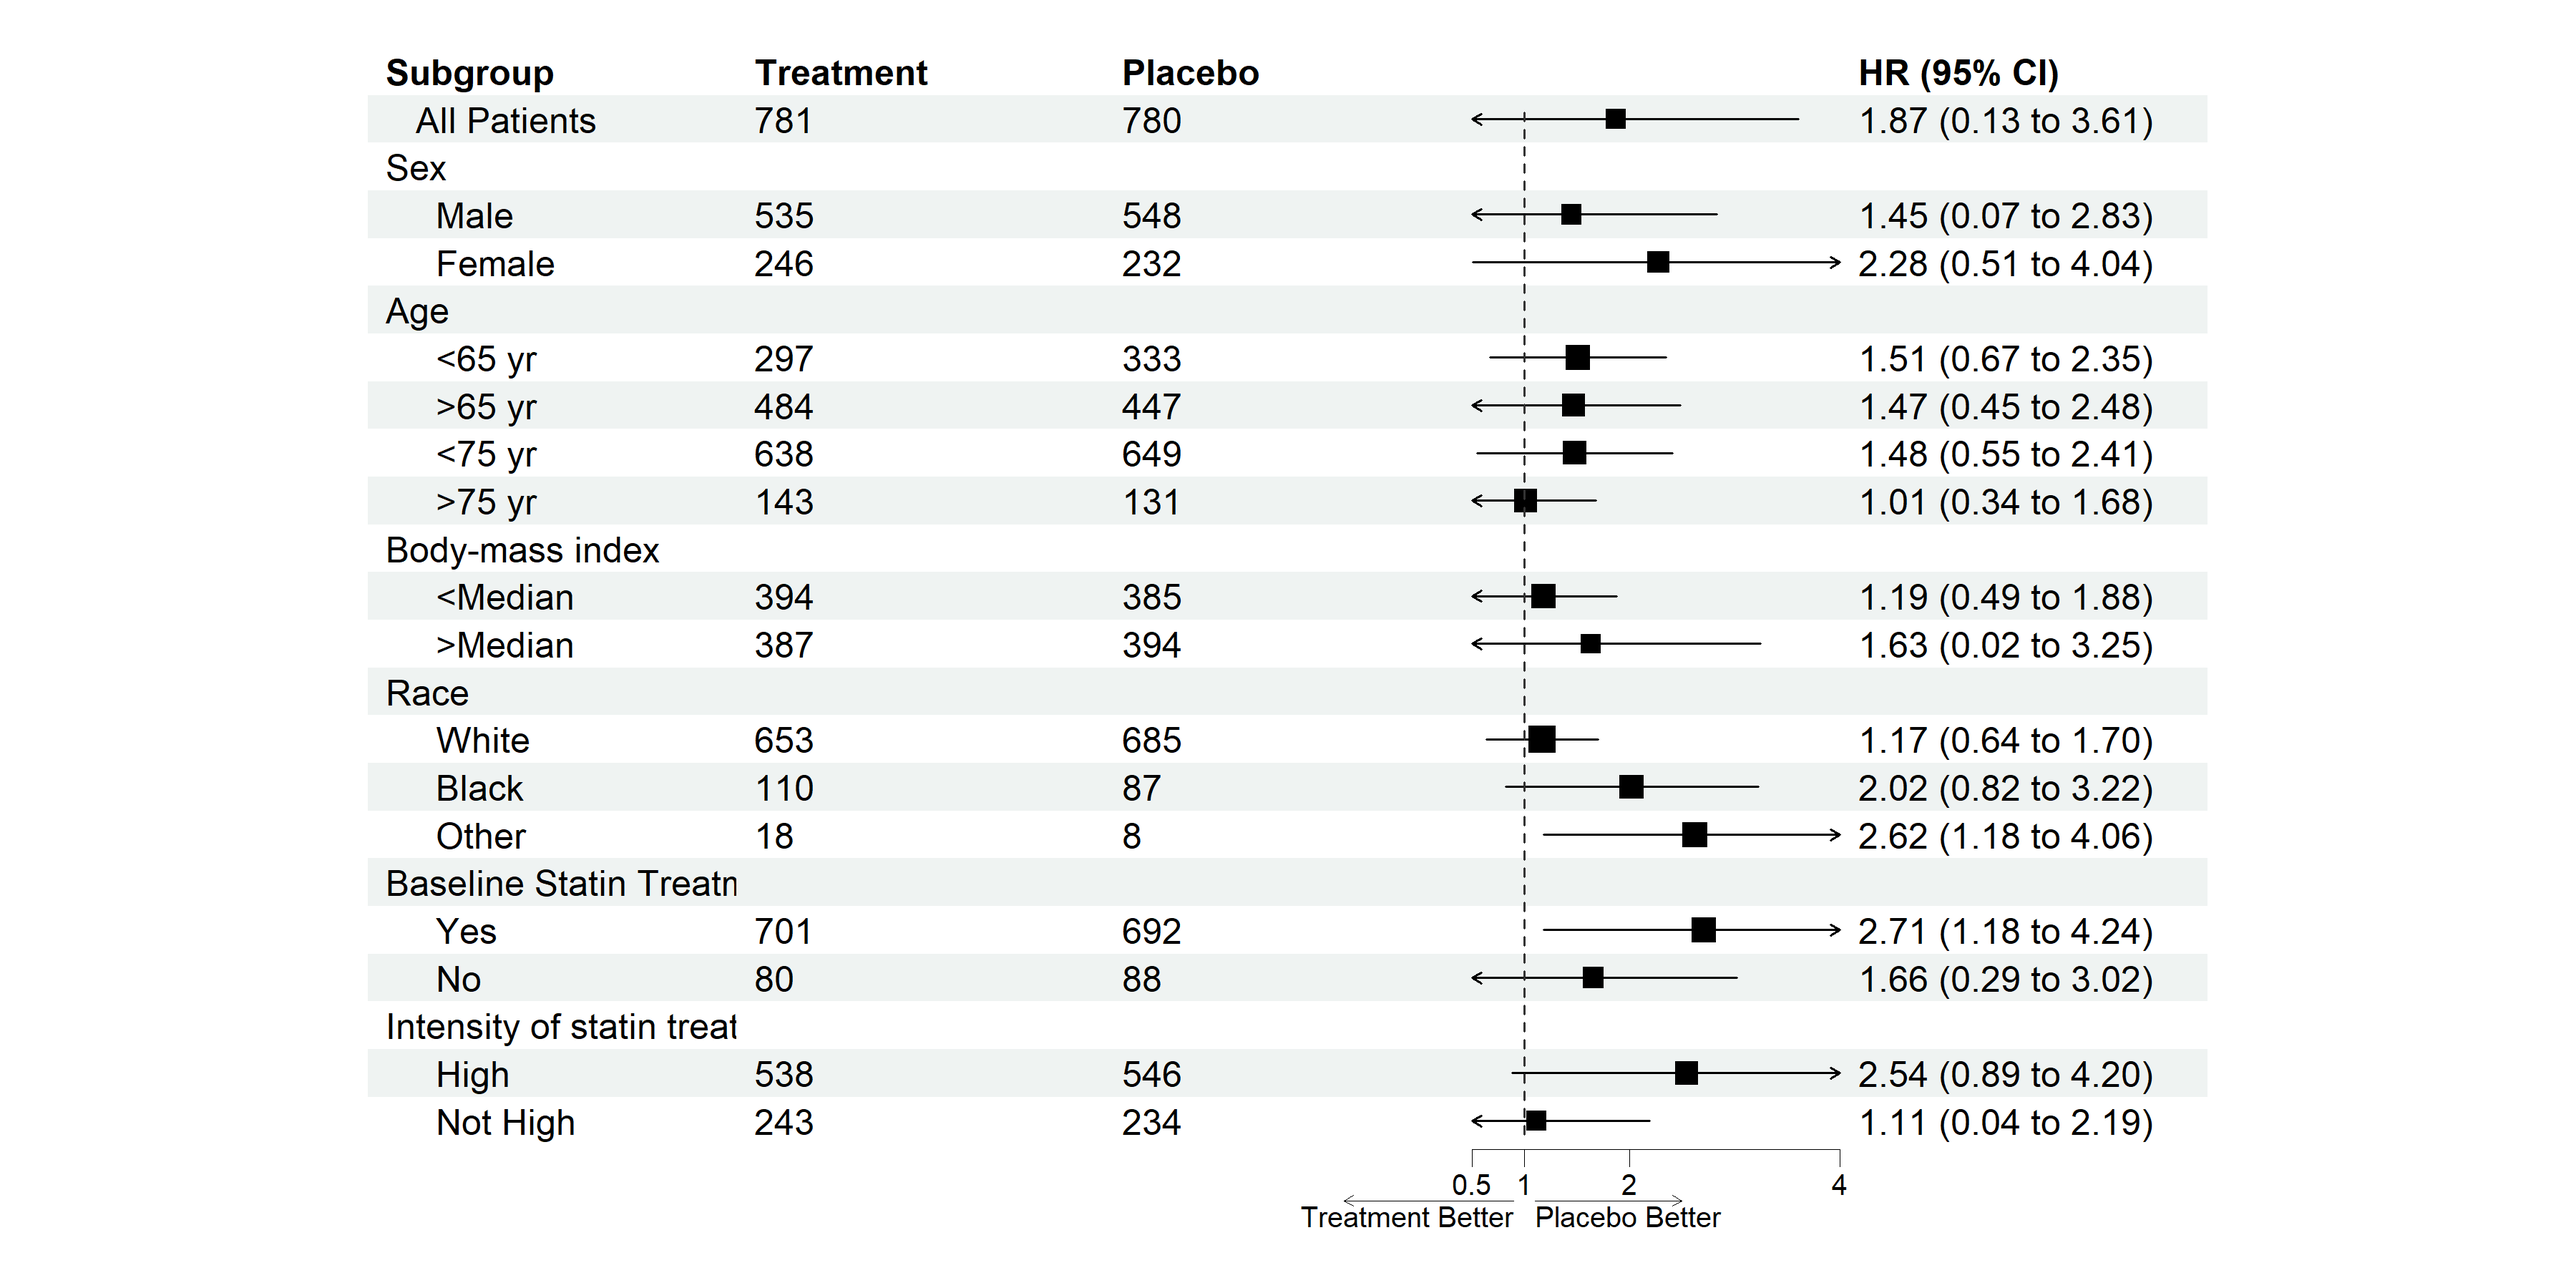
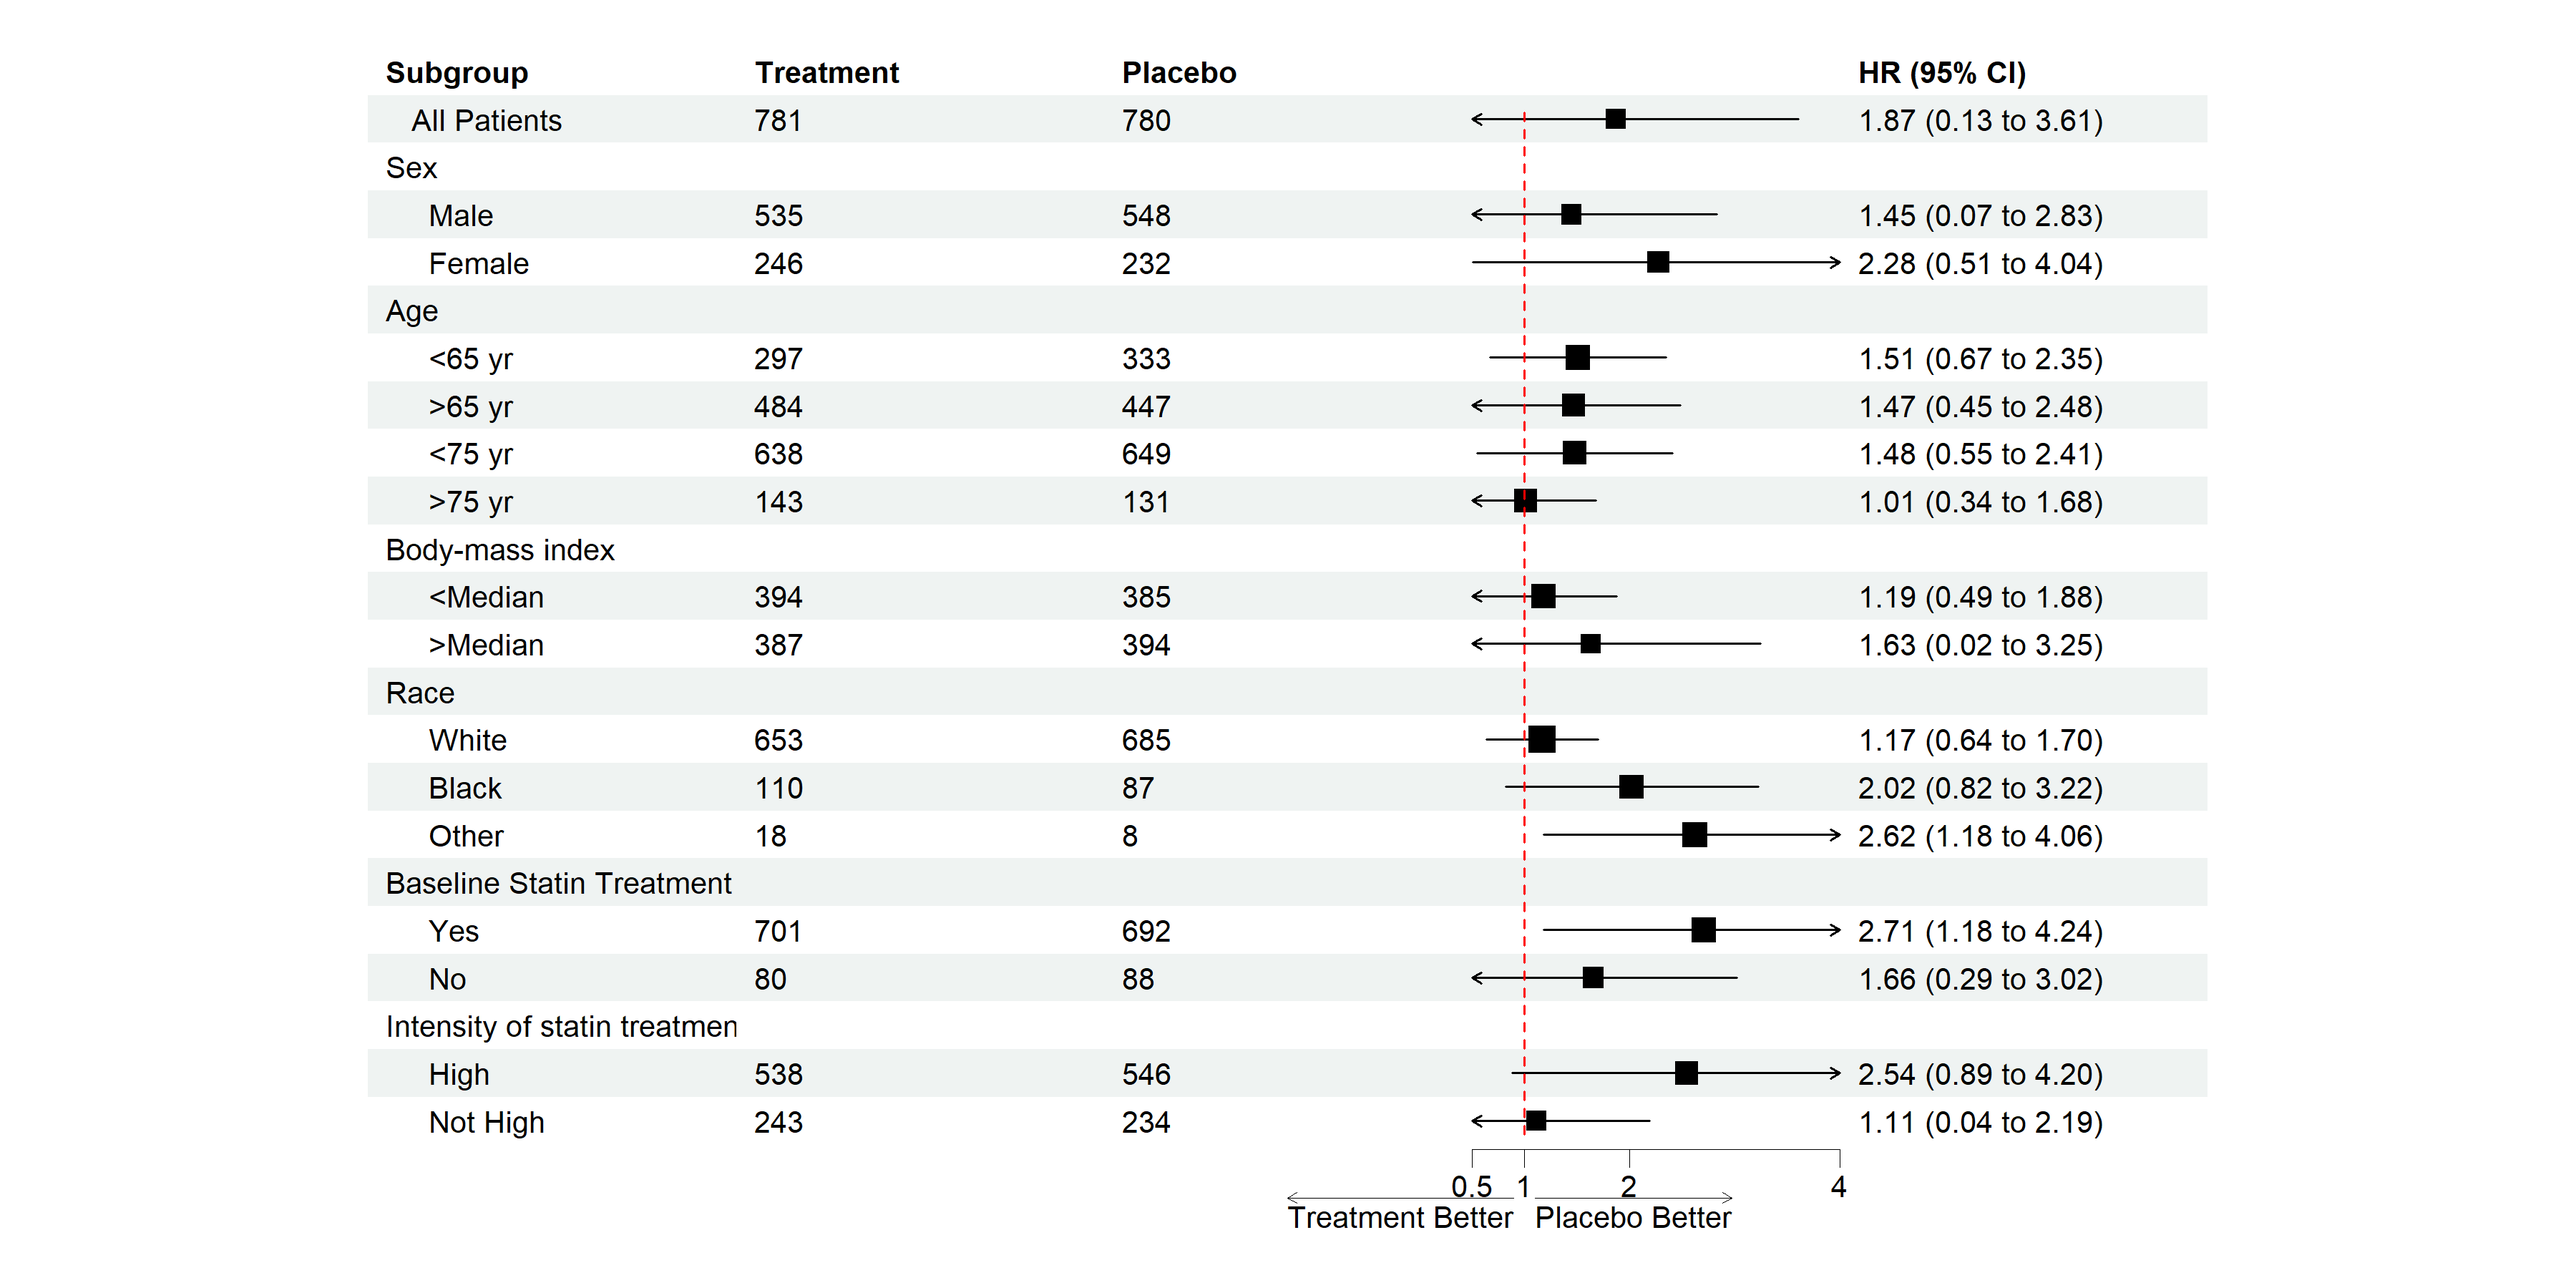
Add theme

diff --git a/README.md b/README.md
@@ -27,6 +27,7 @@ This is a basic example which shows you how to create a forestplot:
 ``` r
 library(forestploter)
 
+
 dt <- read.csv(system.file("extdata", "example_data.csv", package = "forestploter"))
 
 # indent the subgroup if there is a number in the placebo column
@@ -47,6 +48,10 @@ dt$`HR (95% CI)` <- ifelse(is.na(dt$se), "",
                              sprintf("%.2f (%.2f to %.2f)",
                                      dt$est, dt$low, dt$hi))
 
+# Define theme
+tm <- forest_theme(base_size = 10,
+                   refline_col = "red")
+
 p <- forest(dt[,c(1:3, 20:21)],
             est = dt$est,
             lower = dt$low, 
@@ -56,7 +61,8 @@ p <- forest(dt[,c(1:3, 20:21)],
             ref.line = 1,
             ci.column.width = 2,
             arrow.lab = c("Placebo Better", "Treatment Better"),
-            tick.breaks = c(0.5, 1, 2, 4))
+            tick.breaks = c(0.5, 1, 2, 4),
+            theme = tm)
 
 # Draw plot
 plot(p)
